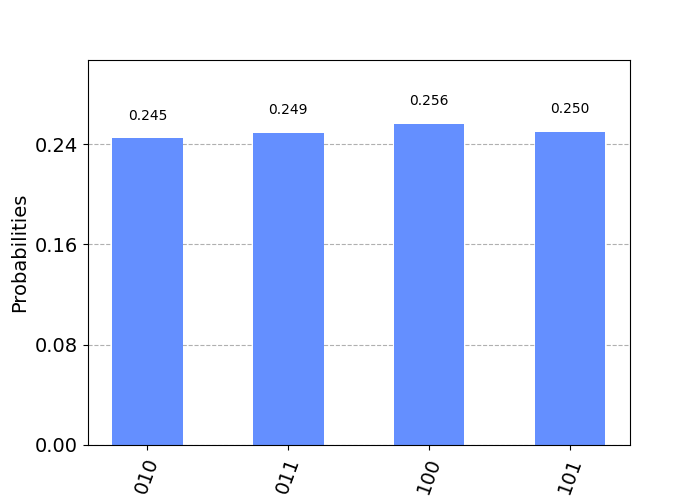
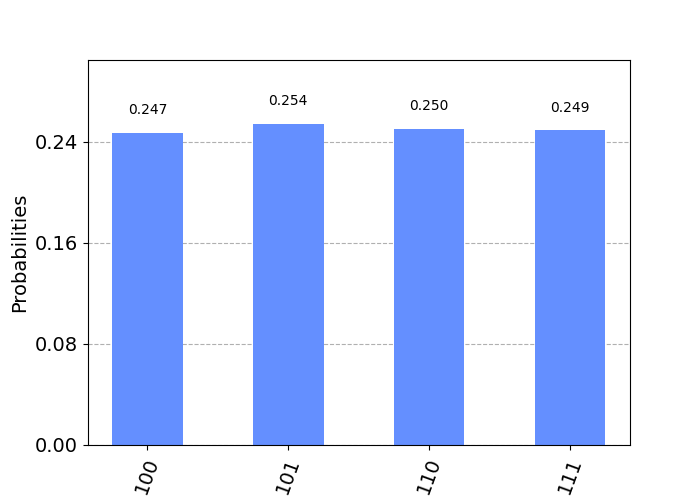
scigym qiskit bruteforce

diff --git a/Prueba 1/scigym-teleportation-bruteforce.py b/Prueba 1/scigym-teleportation-bruteforce.py
@@ -71,20 +71,24 @@ if reward == 1:
             circuit.barrier() 
         elif action == 7:
             actions_gate.append('MEASURE_0')
-            circuit.measure(0, 0) 
-            circuit.barrier() 
+            #circuit.measure(0, 0) 
+            #circuit.barrier() 
         elif action == 8:
             actions_gate.append('MEASURE_1')
-            circuit.measure(1, 1) 
-            circuit.barrier() 
+            #circuit.measure(1, 1) 
+            #circuit.barrier() 
         elif action == 9:
             actions_gate.append('MEASURE_2')
             #circuit.measure(2, 2) 
             #circuit.barrier() 
 
-    circuit.measure(2, 2)
+    circuit.cz(0, 2)
+    circuit.cx(1, 2)
     circuit.barrier() 
-    print("\nNumber of actions: {}. Actions (gates): {}.\nQuantum Circuit 1:".format(i, actions_gate))
+    circuit.measure([0, 1, 2], [0, 1, 2]) 
+    circuit.barrier() 
+
+    print("\nNumber of actions: {}. Actions (gates): {}.\nQuantum Circuit:".format(i, actions_gate))
     print(circuit)
 
     backend = Aer.get_backend('qasm_simulator')
